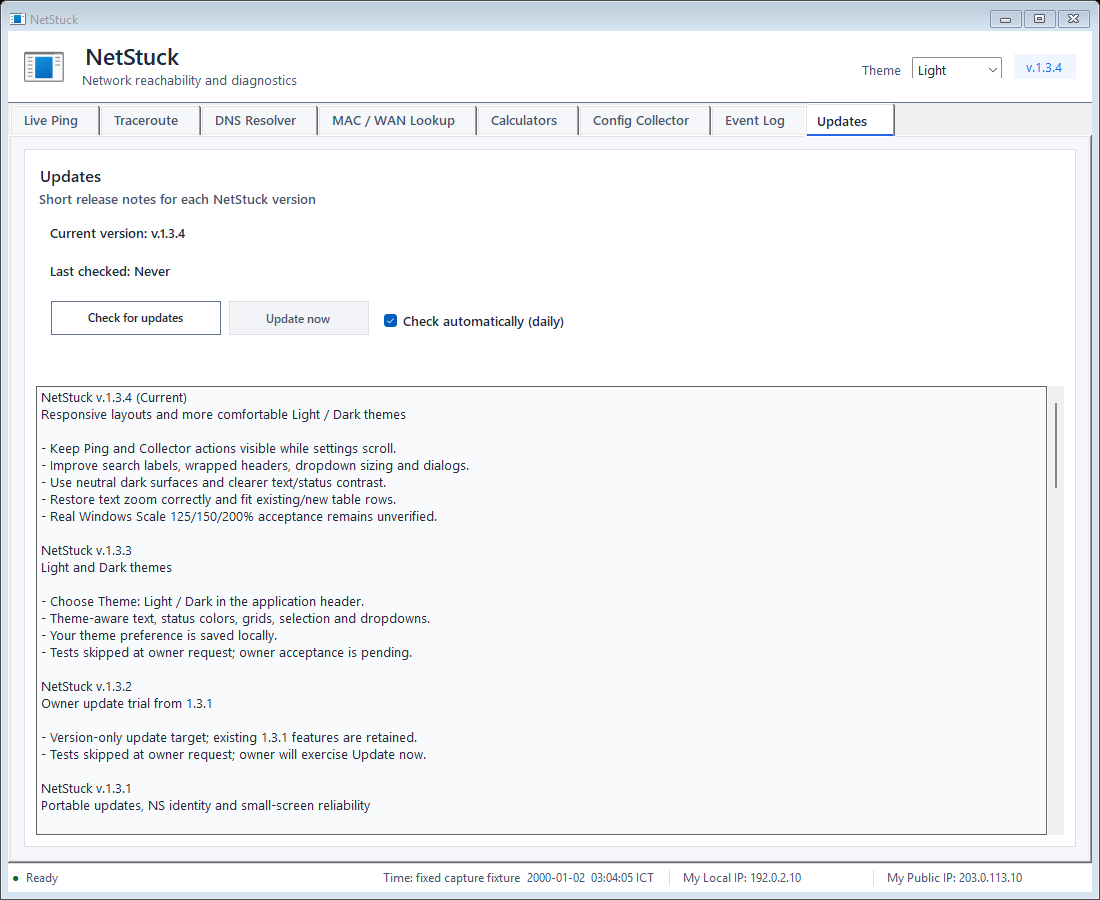
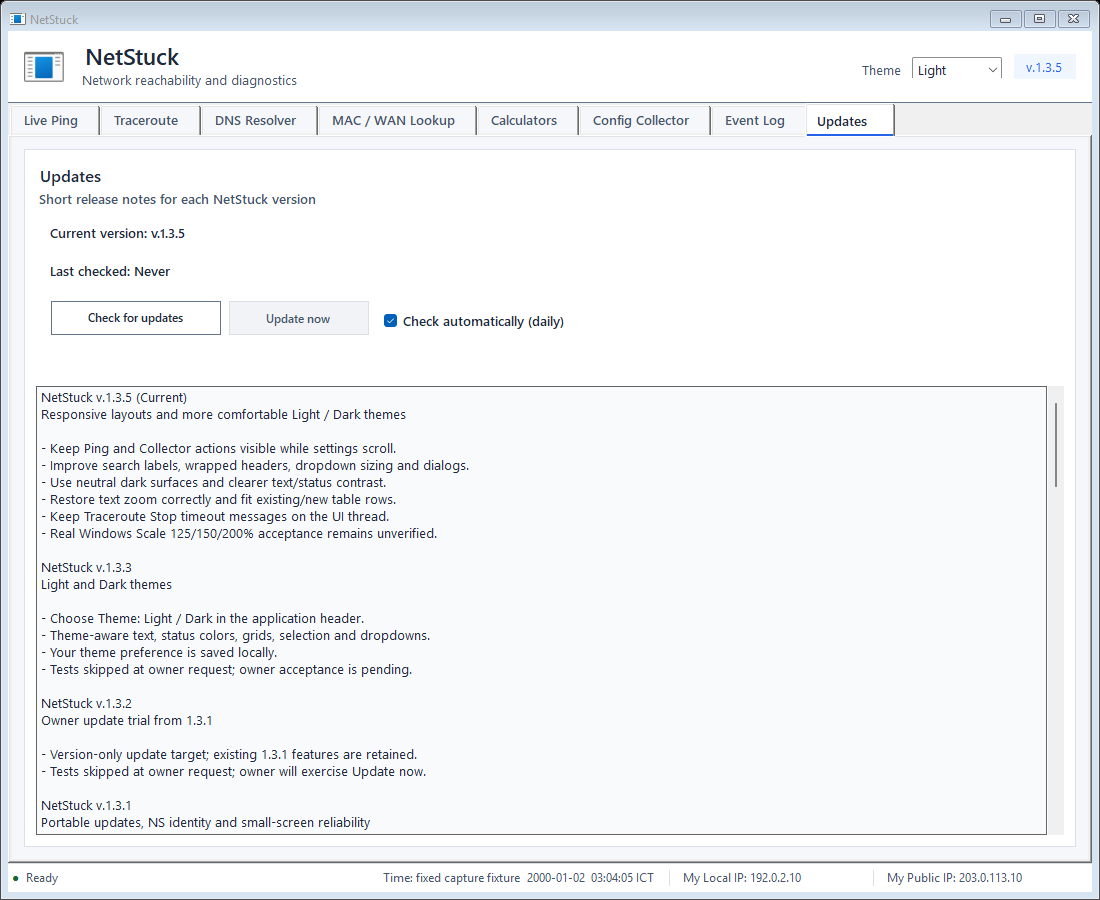
fix: keep Traceroute Stop on UI thread for v1.3.5

Changed region(s): [[0.0309, 0.56, 0.4018, 0.9333]]

diff --git a/tests/FeatureTests.cs b/tests/FeatureTests.cs
@@ -58,12 +58,12 @@ static class FeatureTests
             Check("Config Collector remains and Log Sanitizer menu is removed", tabs.TabPages.Cast<TabPage>().Any(t => t.Text == "Config Collector")
                 && !tabs.TabPages.Cast<TabPage>().Any(t => t.Text == "Log Sanitizer"));
             FileVersionInfo runtimeVersion = FileVersionInfo.GetVersionInfo(typeof(MainForm).Assembly.Location);
-            Check("v.1.3.4 runtime and Updates menu exist", typeof(MainForm).Assembly.GetName().Version.ToString() == "1.3.4.0"
-                && runtimeVersion.FileVersion == "1.3.4.0"
-                && runtimeVersion.ProductVersion == "1.3.4.0"
-                && controls.OfType<Label>().Any(l => l.Name == "applicationVersion" && l.Text == "v.1.3.4")
+            Check("v.1.3.5 runtime and Updates menu exist", typeof(MainForm).Assembly.GetName().Version.ToString() == "1.3.5.0"
+                && runtimeVersion.FileVersion == "1.3.5.0"
+                && runtimeVersion.ProductVersion == "1.3.5.0"
+                && controls.OfType<Label>().Any(l => l.Name == "applicationVersion" && l.Text == "v.1.3.5")
                 && tabs.TabPages.Cast<TabPage>().Any(t => t.Text == "Updates")
-                && controls.OfType<TextBox>().Any(t => t.ReadOnly && t.Text.Contains("NetStuck v.1.3.4 (Current)") && t.Text.Contains("NetStuck v.1.2.3")));
+                && controls.OfType<TextBox>().Any(t => t.ReadOnly && t.Text.Contains("NetStuck v.1.3.5 (Current)") && t.Text.Contains("NetStuck v.1.2.3")));
             Check("WinMTR text removed", !controls.Any(c => c.Text.IndexOf("WinMTR", StringComparison.OrdinalIgnoreCase) >= 0));
             StatusStrip globalStatus = controls.OfType<StatusStrip>().First();
             Check("global status shows local and public IP", globalStatus.Items.Cast<ToolStripItem>().Any(i => i.Text.StartsWith("My Local IP:"))
@@ -420,7 +420,7 @@ static class FeatureTests
             Invoke(form, "SaveAppState");
             string savedState = File.ReadAllText(state);
             Check("collector passwords never persisted", !savedState.Contains("DO_NOT_SAVE_THIS") && !savedState.Contains("ALSO_SECRET") && !savedState.Contains("ENABLE_SECRET"));
-            Check("v.1.3.4 retains state schema 6", savedState.Contains("\"StateVersion\":6"));
+            Check("v.1.3.5 retains state schema 6", savedState.Contains("\"StateVersion\":6"));
 
             IDictionary providerEntries = (IDictionary)Get(form, "traceProviderEntriesV120");
             IDictionary dnsEntries = (IDictionary)Get(form, "traceDnsEntriesV120");

diff --git a/tests/TracerouteLifecycleTests.cs b/tests/TracerouteLifecycleTests.cs
@@ -237,7 +237,14 @@ static class TracerouteLifecycleTests
             harness.Start.PerformClick();
             object run = WaitForRun(harness);
             bool started = PumpUntil(delegate { return gate.Started == 1; }, 1500);
-            harness.Stop.PerformClick();
+            int stopStateThread = 0;
+            var state = (Label)Field(harness.Session, "State");
+            state.TextChanged += delegate
+            {
+                if (state.Text.Contains("Stop incomplete")) Interlocked.Exchange(ref stopStateThread, Thread.CurrentThread.ManagedThreadId);
+            };
+            SynchronizationContext.SetSynchronizationContext(null);
+            var stopTask = (Task<bool>)harness.Form.GetType().GetMethod("StopTraceSessionAsync", Members).Invoke(harness.Form, new[] { harness.Session });
             bool timeoutReported = PumpUntil(delegate { return Snapshot(run).DrainTimedOut; }, 1800);
             RunSnapshot timedOut = Snapshot(run);
             bool restartStillBlocked = Field(harness.Session, "ActiveRun") != null && !harness.Start.Enabled
@@ -246,6 +253,10 @@ static class TracerouteLifecycleTests
                 SnapshotDetail(timedOut));
             Check("Traceroute drain timeout cannot produce a false stopped state", restartStillBlocked,
                 "active=" + (Field(harness.Session, "ActiveRun") != null) + "; start-enabled=" + harness.Start.Enabled);
+            bool stopFinished = PumpUntil(delegate { return stopTask.IsCompleted; }, 1000);
+            Exception stopFailure = stopTask.IsFaulted ? stopTask.Exception : null;
+            Check("Traceroute Stop restores UI context before timeout-state updates", stopFinished && stopFailure == null && stopStateThread == uiThread,
+                "ui=" + uiThread + "; state-thread=" + stopStateThread + "; fault=" + (stopFailure == null ? "none" : stopFailure.GetType().Name));
             gate.ReleaseAll();
             bool stopped = WaitStopped(harness, 2500);
             RunSnapshot recovered = Snapshot(run);

diff --git a/src/NetStuck/NetStuck.cs b/src/NetStuck/NetStuck.cs
@@ -23,8 +23,8 @@ using System.Windows.Forms;
 [assembly: AssemblyProduct("NetStuck")]
 [assembly: AssemblyDescription("Network reachability and diagnostics")]
 [assembly: AssemblyCompany("NetStuck Project")]
-[assembly: AssemblyVersion("1.3.4.0")]
-[assembly: AssemblyFileVersion("1.3.4.0")]
+[assembly: AssemblyVersion("1.3.5.0")]
+[assembly: AssemblyFileVersion("1.3.5.0")]
 
 namespace NetStuck
 {
@@ -80,7 +80,7 @@ namespace NetStuck
     public sealed partial class MainForm : Form
     {
         const string AppName = "NetStuck";
-        const string AppVersion = "v.1.3.4";
+        const string AppVersion = "v.1.3.5";
         const int MaxExpandedTargets = 1024;
 
         Color Canvas { get { return UiPalette.Background(Color.FromArgb(245, 247, 250)); } }
@@ -760,12 +760,13 @@ namespace NetStuck
                 Font = new Font("Segoe UI", 10),
                 BackColor = Surface,
                 Text =
-                    "NetStuck v.1.3.4 (Current)\r\n" +
+                    "NetStuck v.1.3.5 (Current)\r\n" +
                     "Responsive layouts and more comfortable Light / Dark themes\r\n\r\n" +
                     "- Keep Ping and Collector actions visible while settings scroll.\r\n" +
                     "- Improve search labels, wrapped headers, dropdown sizing and dialogs.\r\n" +
                     "- Use neutral dark surfaces and clearer text/status contrast.\r\n" +
                     "- Restore text zoom correctly and fit existing/new table rows.\r\n" +
+                    "- Keep Traceroute Stop timeout messages on the UI thread.\r\n" +
                     "- Real Windows Scale 125/150/200% acceptance remains unverified.\r\n\r\n" +
                     "NetStuck v.1.3.3\r\n" +
                     "Light and Dark themes\r\n\r\n" +

diff --git a/src/NetStuck/NetStuck.V103.cs b/src/NetStuck/NetStuck.V103.cs
@@ -1488,6 +1488,7 @@ namespace NetStuck
         {
             TraceRunV123 run = session == null ? null : session.ActiveRun;
             if (run == null) return true;
+            EnsureTraceUiSynchronizationContextV123();
             session.Stop.Enabled = false; session.Stop.Text = "STOPPING"; session.Stop.BackColor = UiPalette.Background(Color.FromArgb(217, 119, 6)); session.Stop.ForeColor = Color.White;
             session.Stop.FlatAppearance.BorderColor = Warning;
             session.Paused = false; RequestTraceRunCancellationV123(run);
@@ -1501,7 +1502,8 @@ namespace NetStuck
             int pendingCount;
             lock (run.SyncRoot) pendingCount = run.InFlightTasks.Count;
             run.DrainTimedOut = true;
-            if (!appClosing && !IsDisposed && !Disposing)
+            if (Object.ReferenceEquals(session.ActiveRun, run) && !appClosing && !IsDisposed && !Disposing
+                && session.Page != null && !session.Page.IsDisposed && !session.Page.Disposing)
             {
                 session.State.Text = "Target: Stop incomplete (" + pendingCount + " task(s) pending)";
                 session.State.ForeColor = Danger;

diff --git a/src/NetStuck/NetStuck.Updates.cs b/src/NetStuck/NetStuck.Updates.cs
@@ -90,7 +90,7 @@ namespace NetStuck
                 if (!(uri.Host == "api.github.com" || uri.Host == "github.com" || uri.Host == "release-assets.githubusercontent.com" || uri.Host == "objects.githubusercontent.com"))
                     throw new InvalidDataException("Untrusted download host.");
                 var request = (HttpWebRequest)WebRequest.Create(uri);
-                request.AllowAutoRedirect = false; request.UserAgent = "NetStuck/1.3.4";
+                request.AllowAutoRedirect = false; request.UserAgent = "NetStuck/1.3.5";
                 request.Accept = "application/vnd.github+json";
                 request.Timeout = 15000; request.ReadWriteTimeout = 15000;
                 using (token.Register(request.Abort))

diff --git a/docs/releases/v1.3.5/RELEASE_REPORT.md b/docs/releases/v1.3.5/RELEASE_REPORT.md
@@ -1,0 +1,40 @@
+# NetStuck v1.3.5 release verification
+
+The owner requested GitHub publication of the [UI improvements](../../UI_RESOLUTION_THEME_IMPROVEMENT_REPORT.md). The initial v1.3.4 tag failed release packaging in Traceroute lifecycle tests: Stop updated an autosized label without a WinForms synchronization context. That run completed 178 checks and 5/12 suites with one infrastructure failure and produced no release assets. [The failed candidate report](../v1.3.4/RELEASE_REPORT.md) preserves its separate evidence; its passing local/PR/main runs do not override the failed release run.
+
+v1.3.5 retains the UI improvements and repairs Stop's UI context before its first await. The timeout display also checks run ownership and page disposal. A deterministic regression clears the caller's synchronization context and observes the timeout label's thread: before the repair it updated on thread 4 instead of UI thread 1. All failures are observed without an unhandled async event or test-state leak. The lifecycle floor increases from 31 to 32; the full runner now requires 424 checks.
+
+## Fresh validation
+
+Final `scripts/Test-NetStuck.ps1 -SoakSeconds 10` runs against 1.3.5:
+
+| Host | Passed / discovered | Failed / skipped / infrastructure | Required suites / build stages |
+| --- | --- | --- | --- |
+| Windows PowerShell 5.1.26100.3624 (package run) | 424 / 424 | 0 / 0 / 0 | 12 / 12; 2 / 2 |
+| PowerShell 7.6.5 | 424 / 424 | 0 / 0 / 0 | 12 / 12; 2 / 2 |
+
+| Fresh local measurement | PowerShell 5.1 | PowerShell 7 |
+| --- | --- | --- |
+| Warm UI startup | 1,501 ms | 1,533 ms |
+| Worst UI dispatch under /24 load | 40 ms | 26 ms |
+| Worst dual-Traceroute UI dispatch | 52 ms | 59 ms |
+| Working set in performance suite | 77 MB | 80 MB |
+| Ping 250 ms vs 1000 ms, timeout 1000 ms | 12 vs 3 completions | 10 vs 3 completions |
+| Traceroute 250 ms vs 1000 ms, timeout 1000 ms | 14 vs 4 samples | 14 vs 4 samples |
+| Soak duration / worst dispatch / memory growth | 11.440 s / 17 ms / 11 MB | 11.440 s / 55 ms / 11 MB |
+
[1 lines of base64/hex data omitted]
+
+An initial PowerShell 5.1 package run failed the unchanged startup threshold: 2,516 ms versus a required value below 2,500 ms (354/355 checks passed, 8/12 suites completed). Its log/summary remain under `artifacts/release-v1.3.5/*startup-failure*`. The final full package run above passed at 1,501 ms; no threshold or test was weakened. Earlier v1.3.4 totals/fingerprints are not counted as v1.3.5 validation. These are host/run measurements, not universal performance promises.
+
+Local portable packaging passed its exact inventory, per-file SHA256 and extracted-content equivalence gates. PuTTY 0.80 retains its required SHA256 and verified signature. Fresh summaries, full output, focused before/after failure evidence, stress output, package provenance and staged startup smoke are retained under ignored `artifacts/release-v1.3.5/` and `artifacts/release/`.
+
+Staged startup smoke passed all seven checks, including a responsive native window, graceful zero exit, credential/profile-path checks and complete owned-state cleanup. `Capture-UiFoundations.ps1 -DeterminismRuns 5` passed all nine scenarios across all five runs, with semantic/PNG/privacy checks and promotion of the 1.3.5 screenshot set. No majority selection was used. Normal/minimum versioned screenshots were inspected; native popup/terminal coverage remains the separately described UI audit.
+
+## Display and publication boundary
+
+The UI audit covers eight pages in Light/Dark at normal/minimum sizes on a 96-DPI host, with native review of Ping, dropdowns, custom dialogs and Collector scrolling/terminal. The release regenerates its nine canonical screenshots with a strict five-run hash comparison and pixel/geometry stabilization; it does not select a majority image.
+
+Real Windows Scale 125/150/200%, mixed-DPI monitor moves/docking/RDP, Windows accessibility text size, High Contrast and screen-reader traversal remain **UNVERIFIED**. Publication authorization is not an observed manual PASS or a historical waiver.
+
+Tag automation tests/packages the immutable candidate, runs startup smoke and stages a draft. Publication evidence on the GitHub Release records PR/main/tag CI, the accepted workflow package identity, clean-tag source inventory binding, downloaded asset/manifest verification and a startup smoke against the downloaded executable. Binary identity is taken from that candidate's provenance, not inferred from another host's compilation or a historical build.

diff --git a/docs/TESTING.md b/docs/TESTING.md
@@ -24,7 +24,7 @@ After all cadence resources are closed and results are flushed, that harness exi
 | `NetOpsCoreTests` | Target parsing, CIDR rules, MAC extraction, subnet calculation, units and CSV escaping. |
 | `FeatureTests` | UI/integration behavior, persistence, Ping/Trace/DNS, Collector authentication/transport/export, layout and caching. |
 | `MaintenanceTests` | Atomic persistence/recovery, stable release metadata, download cancellation, malicious ZIP rejection, file replacement/rollback/recovery, timezone, update actions, column selection and constrained workspaces. |
-| `TracerouteLifecycleTests` | Real MainForm route/event tables, UI-thread dispatch, zero/one/multiple delayed probes, fault during Stop, derived timeout failure, obsolete run, restart gating, page disposal, active close, exact task observation and fail-closed state cleanup. |
+| `TracerouteLifecycleTests` | Real MainForm route/event tables, UI-thread dispatch, zero/one/multiple delayed probes, fault during Stop, derived timeout failure, Stop timeout UI-context restoration, obsolete run, restart gating, page disposal, active close, exact task observation and fail-closed state cleanup. |
 | `UiFoundationTests` | Pilot token/state/action contracts, accessibility, semantic state, layout, interaction and privacy. |
 | `UiLayoutTests` | Eight pages at normal/minimum widths in Light/Dark, usable grids, action bounds, pinned operations, text contrast including Pause/Stop, dropdown metrics, wrapped bilingual headers, existing/new zoomed rows and restored zoom/theme. Compiles with the production DPI-awareness manifest and records process DPI; does not prove unvisited Scale settings. |
 | `PerformanceTests` | Startup, `/24` load, UI dispatch, queue draining, dual Traceroute and memory. |
@@ -33,7 +33,7 @@ After all cadence resources are closed and results are flushed, that harness exi
 | `Capture-UiFoundations infrastructure` | Semantic/current-run evidence, pre/post-promotion rollback, forced rollback failure, exact screenshot inventory, PNG decoding/structure/order/CRC/truncation negatives and privacy. |
 | `Build provenance infrastructure` | Production allowlist drift, test-source exclusion, atomic actual/normalized argv, special-character vectors, binary serialization/order/content/display negatives, reference identity, binary drift, package-input drift, toolchain classification and checkout relocation. |
 
-The current authoritative unchanged-behavior corpus is `130/130`: NetOpsCore 16, Feature 93, Performance 10, PollingCadence 3 and OvernightSoak 8. The current complete runner inventory is `423` checks across twelve suites: runner 10, NetOpsCore 16, Feature 93, Maintenance 40, Traceroute lifecycle 31, UI foundation 63, UI layout 91, Performance 10, Polling cadence 3, Soak 8, capture infrastructure 39 and build provenance 19. These values are the current floors in the runner; more checks remain valid. Historical totals, including the earlier `332`-check inventory, remain historical evidence and are not rewritten.
+The current authoritative unchanged-behavior corpus is `130/130`: NetOpsCore 16, Feature 93, Performance 10, PollingCadence 3 and OvernightSoak 8. The current complete runner inventory is `424` checks across twelve suites: runner 10, NetOpsCore 16, Feature 93, Maintenance 40, Traceroute lifecycle 32, UI foundation 63, UI layout 91, Performance 10, Polling cadence 3, Soak 8, capture infrastructure 39 and build provenance 19. These values are the current floors in the runner; more checks remain valid. Historical totals, including the earlier `332`-check inventory, remain historical evidence and are not rewritten.
 
 Run the deterministic Traceroute lifecycle stress after lifecycle changes; every cycle owns a form, probe gate, tables, task registry and temporary state root:
 

diff --git a/README-TH.md b/README-TH.md
@@ -1,10 +1,10 @@
 # NetStuck
 
-NetStuck เป็นโปรแกรม Network diagnostics และ Config Collector แบบ Portable สำหรับ Windows/.NET Framework 4.x รุ่น **v1.3.4** ปรับ layout ให้เหมาะกับพื้นที่หน้าต่าง ปรับ text zoom และสี Light / Dark ให้อ่านสบายขึ้น
+NetStuck เป็นโปรแกรม Network diagnostics และ Config Collector แบบ Portable สำหรับ Windows/.NET Framework 4.x รุ่น **v1.3.5** ปรับ layout ให้เหมาะกับพื้นที่หน้าต่าง ปรับ text zoom และสี Light / Dark ให้อ่านสบายขึ้น
 
 เลือก **Theme → Dark** หรือ Light บนแถบหัวแอป ระบบจำธีมที่เลือกไว้ในเครื่อง สีข้อความ สถานะ ตาราง และหน้าต่างย่อยของแอปจะเปลี่ยนตามธีม ส่วนหน้าต่างเลือกไฟล์/ข้อความของ Windows ใช้รูปแบบของ Windows
 
-ปุ่มทำงานของ Ping และ Collector ยังมองเห็นได้เมื่อเลื่อน settings มี label ถาวรสำหรับ search และช่องยืนยันตัวตน พร้อมปรับ header, dialog, dropdown และความสูงแถวตารางตามข้อความ ดู [ผลตรวจ UI](docs/UI_RESOLUTION_THEME_IMPROVEMENT_REPORT.md) และ [รายงาน release v1.3.4](docs/releases/v1.3.4/RELEASE_REPORT.md) การใช้ Windows Scale 125/150/200%, จอ mixed-DPI และ accessibility modes ยังไม่ได้ตรวจบนสภาพแวดล้อมจริง
+ปุ่มทำงานของ Ping และ Collector ยังมองเห็นได้เมื่อเลื่อน settings มี label ถาวรสำหรับ search และช่องยืนยันตัวตน พร้อมปรับ header, dialog, dropdown และความสูงแถวตารางตามข้อความ ดู [ผลตรวจ UI](docs/UI_RESOLUTION_THEME_IMPROVEMENT_REPORT.md) และ [รายงาน release v1.3.5](docs/releases/v1.3.5/RELEASE_REPORT.md) การใช้ Windows Scale 125/150/200%, จอ mixed-DPI และ accessibility modes ยังไม่ได้ตรวจบนสภาพแวดล้อมจริง
 
 ## ความสามารถหลัก
 

diff --git a/CHANGELOG.md b/CHANGELOG.md
@@ -2,7 +2,15 @@
 
 All notable changes are recorded here. Versions use `vMAJOR.MINOR.PATCH` in Git tags and `v.MAJOR.MINOR.PATCH` in the legacy application UI.
 
-## v1.3.4 — Responsive layouts and theme readability, 2026-10-05
+## v1.3.5 — Responsive UI with safe Traceroute Stop, 2026-10-05
+
+- Includes the responsive layout, Light/Dark, text-zoom and snapshot improvements prepared for the unpublished v1.3.4 candidate.
+- Restore the WinForms UI synchronization context before awaiting Traceroute Stop; timeout labels remain on the UI thread even when the caller has no synchronization context.
+- Prevent an old Stop timeout from changing a replaced run or disposed session page.
+- Add a deterministic regression for the off-thread timeout-state update; increase the required lifecycle suite to 32 and the complete runner to 424 checks.
+- Preserve the failed v1.3.4 tag and its release-run evidence. The failed run produced no release assets; publication uses the repaired v1.3.5 candidate.
+
+## v1.3.4 — Unpublished UI candidate, 2026-10-05
 
 - Keep Live Ping and Config Collector operations visible outside scrollable settings; size page workspaces from the available client area.
 - Add persistent search/credential labels, wrapped card descriptions, content-sized dialog actions and font-aware dropdown sizing.
@@ -12,6 +20,7 @@ All notable changes are recorded here. Versions use `vMAJOR.MINOR.PATCH` in Git 
 - Run fresh local regression, deterministic capture, Windows CI and packaged startup verification for this release. Real Windows Scale 125/150/200%, mixed-DPI and accessibility-mode acceptance remain unverified; see the release report.
 - Stage automated release uploads as drafts and verify packaged startup; published assets cannot be overwritten by a workflow rerun.
 - Wait for rendered pixels as well as geometry before snapshot capture; retain the strict five-run screenshot comparison.
+- Release packaging stopped in a Traceroute Stop timeout on Windows CI; this candidate was not published.
 
 ## v1.3.3 — Light and Dark themes, 2026-09-23
 

diff --git a/README.md b/README.md
@@ -1,10 +1,10 @@
 # NetStuck
 
-NetStuck is a portable Windows network diagnostics and configuration-collection application targeting .NET Framework 4.x. **v1.3.4 improves responsive layouts, text zoom and Light/Dark readability**.
+NetStuck is a portable Windows network diagnostics and configuration-collection application targeting .NET Framework 4.x. **v1.3.5 improves responsive layouts, text zoom and Light/Dark readability**.
 
 Choose **Theme → Dark** (or Light) in the application header. The preference is saved locally and restored after restart. Text, status colors, tables, selection and application dialogs follow the chosen palette. Native Windows file/message dialogs and system chrome follow Windows.
 
-Ping and Collector operations remain visible while settings scroll. Search and credential fields have persistent labels; headers, dialogs, dropdowns and zoomed table rows fit their content. See the [UI audit](docs/UI_RESOLUTION_THEME_IMPROVEMENT_REPORT.md) and [v1.3.4 release verification](docs/releases/v1.3.4/RELEASE_REPORT.md). Real Windows Scale 125/150/200%, mixed-DPI monitors and accessibility modes remain unverified.
+Ping and Collector operations remain visible while settings scroll. Search and credential fields have persistent labels; headers, dialogs, dropdowns and zoomed table rows fit their content. See the [UI audit](docs/UI_RESOLUTION_THEME_IMPROVEMENT_REPORT.md) and [v1.3.5 release verification](docs/releases/v1.3.5/RELEASE_REPORT.md). Real Windows Scale 125/150/200%, mixed-DPI monitors and accessibility modes remain unverified.
 
 ## Features
 
@@ -20,7 +20,7 @@ Ping and Collector operations remain visible while settings scroll. Search and c
 
 ## Repository baseline and candidate
 
-v1.3.4 builds on the published v1.3.3 snapshot. Run validation with both Windows PowerShell 5.1 and PowerShell 7:
+v1.3.5 builds on the published v1.3.3 snapshot. Run validation with both Windows PowerShell 5.1 and PowerShell 7:
 
 ```powershell
 .\scripts\Test-NetStuck.ps1 -SoakSeconds 10

diff --git a/docs/RELEASING.md b/docs/RELEASING.md
@@ -26,16 +26,16 @@
 7. Package:
 
    ```powershell
-   .\scripts\Package-NetStuck.ps1 -Version 1.3.4 -PlinkPath C:\path\to\plink.exe
+   .\scripts\Package-NetStuck.ps1 -Version 1.3.5 -PlinkPath C:\path\to\plink.exe
    ```
 
 8. Re-verify `SHA256SUMS.txt` and run the fail-closed packaged smoke from the staged portable folder:
 
    ```powershell
-   .\scripts\Test-PackagedSmoke.ps1 -ExecutablePath .\artifacts\release\NetStuck-v.1.3.4\NetStuck.exe
+   .\scripts\Test-PackagedSmoke.ps1 -ExecutablePath .\artifacts\release\NetStuck-v.1.3.5\NetStuck.exe
    ```
 9. Commit, push and wait for Windows CI to pass.
-10. After release acceptance, create the annotated tag `v1.3.4`. The tag workflow tests/packages the tag, runs packaged startup and stages a draft GitHub Release with the ZIP and ZIP SHA256. It refuses to replace an already published release.
+10. After release acceptance, create the annotated tag `v1.3.5`. The tag workflow tests/packages the tag, runs packaged startup and stages a draft GitHub Release with the ZIP and ZIP SHA256. It refuses to replace an already published release.
 11. Download the draft assets into a clean directory, compare the asset/ZIP hashes, verify the exact portable inventory and per-file manifest, and repeat startup smoke before publishing as Latest. Keep unperformed manual acceptance checks explicit in the report and release notes; publication authorization is not an observed test PASS.
 
 ## Package requirements

diff --git a/docs/releases/v1.3.5/GITHUB_RELEASE_NOTES.md b/docs/releases/v1.3.5/GITHUB_RELEASE_NOTES.md
@@ -1,0 +1,13 @@
+NetStuck v1.3.5 improves UI layout, Light/Dark readability and Traceroute Stop reliability.
+
+- Ping and Config Collector actions stay visible while settings scroll.
+- Clearer search/credential labels, wrapped headers, adaptive dialogs and dropdown sizing.
+- Neutral dark surfaces and stronger text/status contrast in both themes.
+- Correct restored text zoom and table-row sizing.
+- Keep Traceroute Stop timeout messages on the UI thread and guard disposed/replaced sessions.
+
+Download **NetStuck-v.1.3.5.zip**, extract the complete folder, and keep `NetStuck.exe`, `tools` and the PuTTY license together. The ZIP SHA256 is attached; `SHA256SUMS.txt` inside covers the portable files.
+
+Exact fresh test totals, performance and acceptance boundaries are in [the release report](https://github.com/pk-wrk-sea/netstuck-platform/blob/v1.3.5/docs/releases/v1.3.5/RELEASE_REPORT.md). The unpublished v1.3.4 candidate failed release packaging; v1.3.5 includes its UI improvements and the deterministic Stop repair.
+
+Normal and 1100×700 layouts were reviewed on a 96-DPI desktop. Real Windows Scale 125/150/200%, mixed-DPI monitor transitions, High Contrast and screen-reader acceptance remain **unverified**. This release preserves system-DPI awareness; monitor transitions can still use Windows bitmap scaling.
